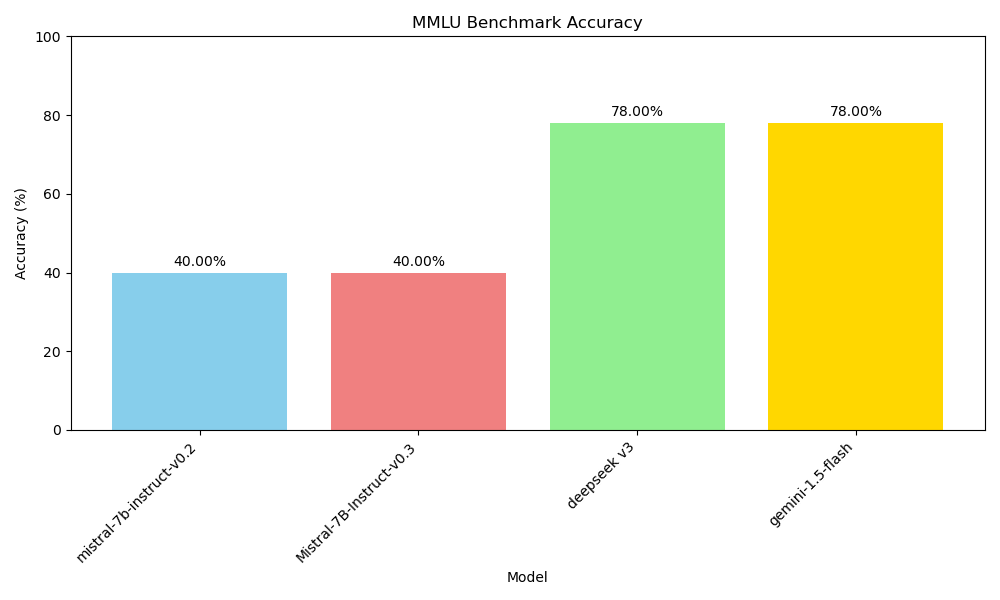
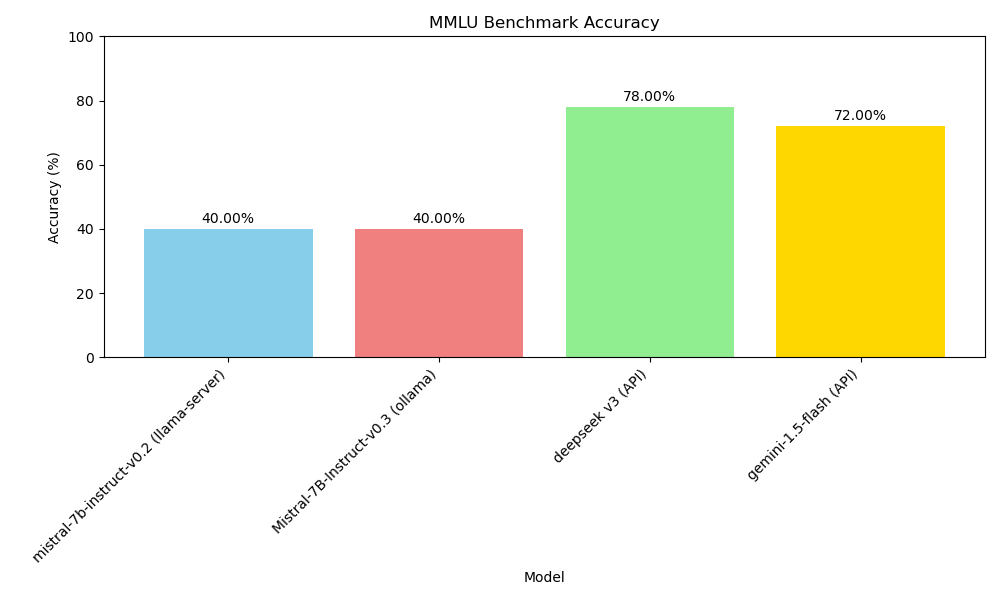
refactor(scripts): update model names in mmlu_plot.py

diff --git a/scripts/mmlu_plot.py b/scripts/mmlu_plot.py
@@ -1,7 +1,7 @@
 import matplotlib.pyplot as plt
 
 # Sample data (replace with your actual data)
-models = ['mistral-7b-instruct-v0.2', 'Mistral-7B-Instruct-v0.3', 'deepseek v3', 'gemini-1.5-flash']
+models = ['mistral-7b-instruct-v0.2 (llama-server)', 'Mistral-7B-Instruct-v0.3 (ollama)', 'deepseek v3 (API)', 'gemini-1.5-flash (API)']
 accuracy = [40.00, 40.00, 78.00, 72.00]
 
 # Create the bar chart
